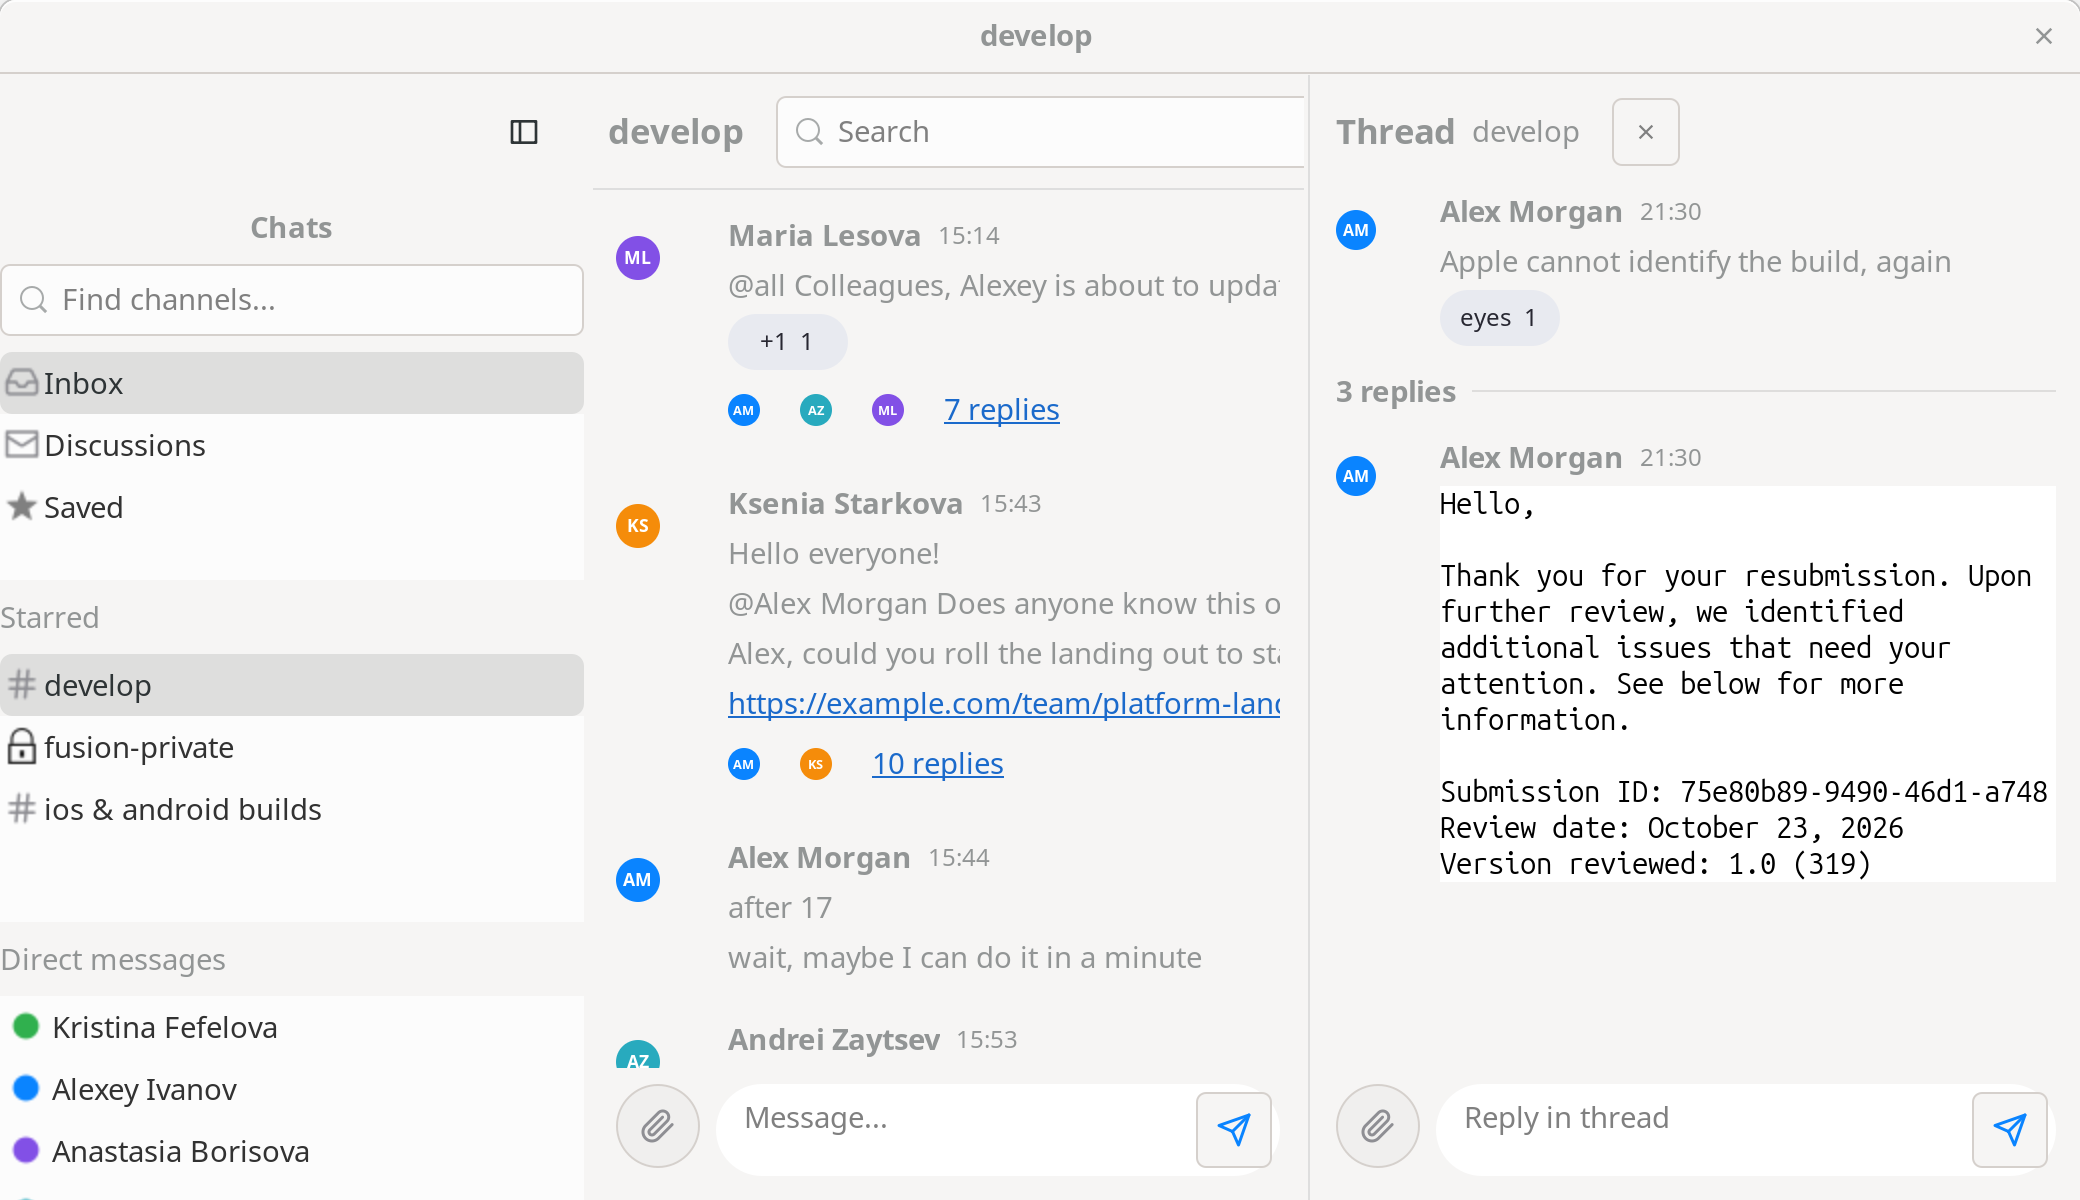
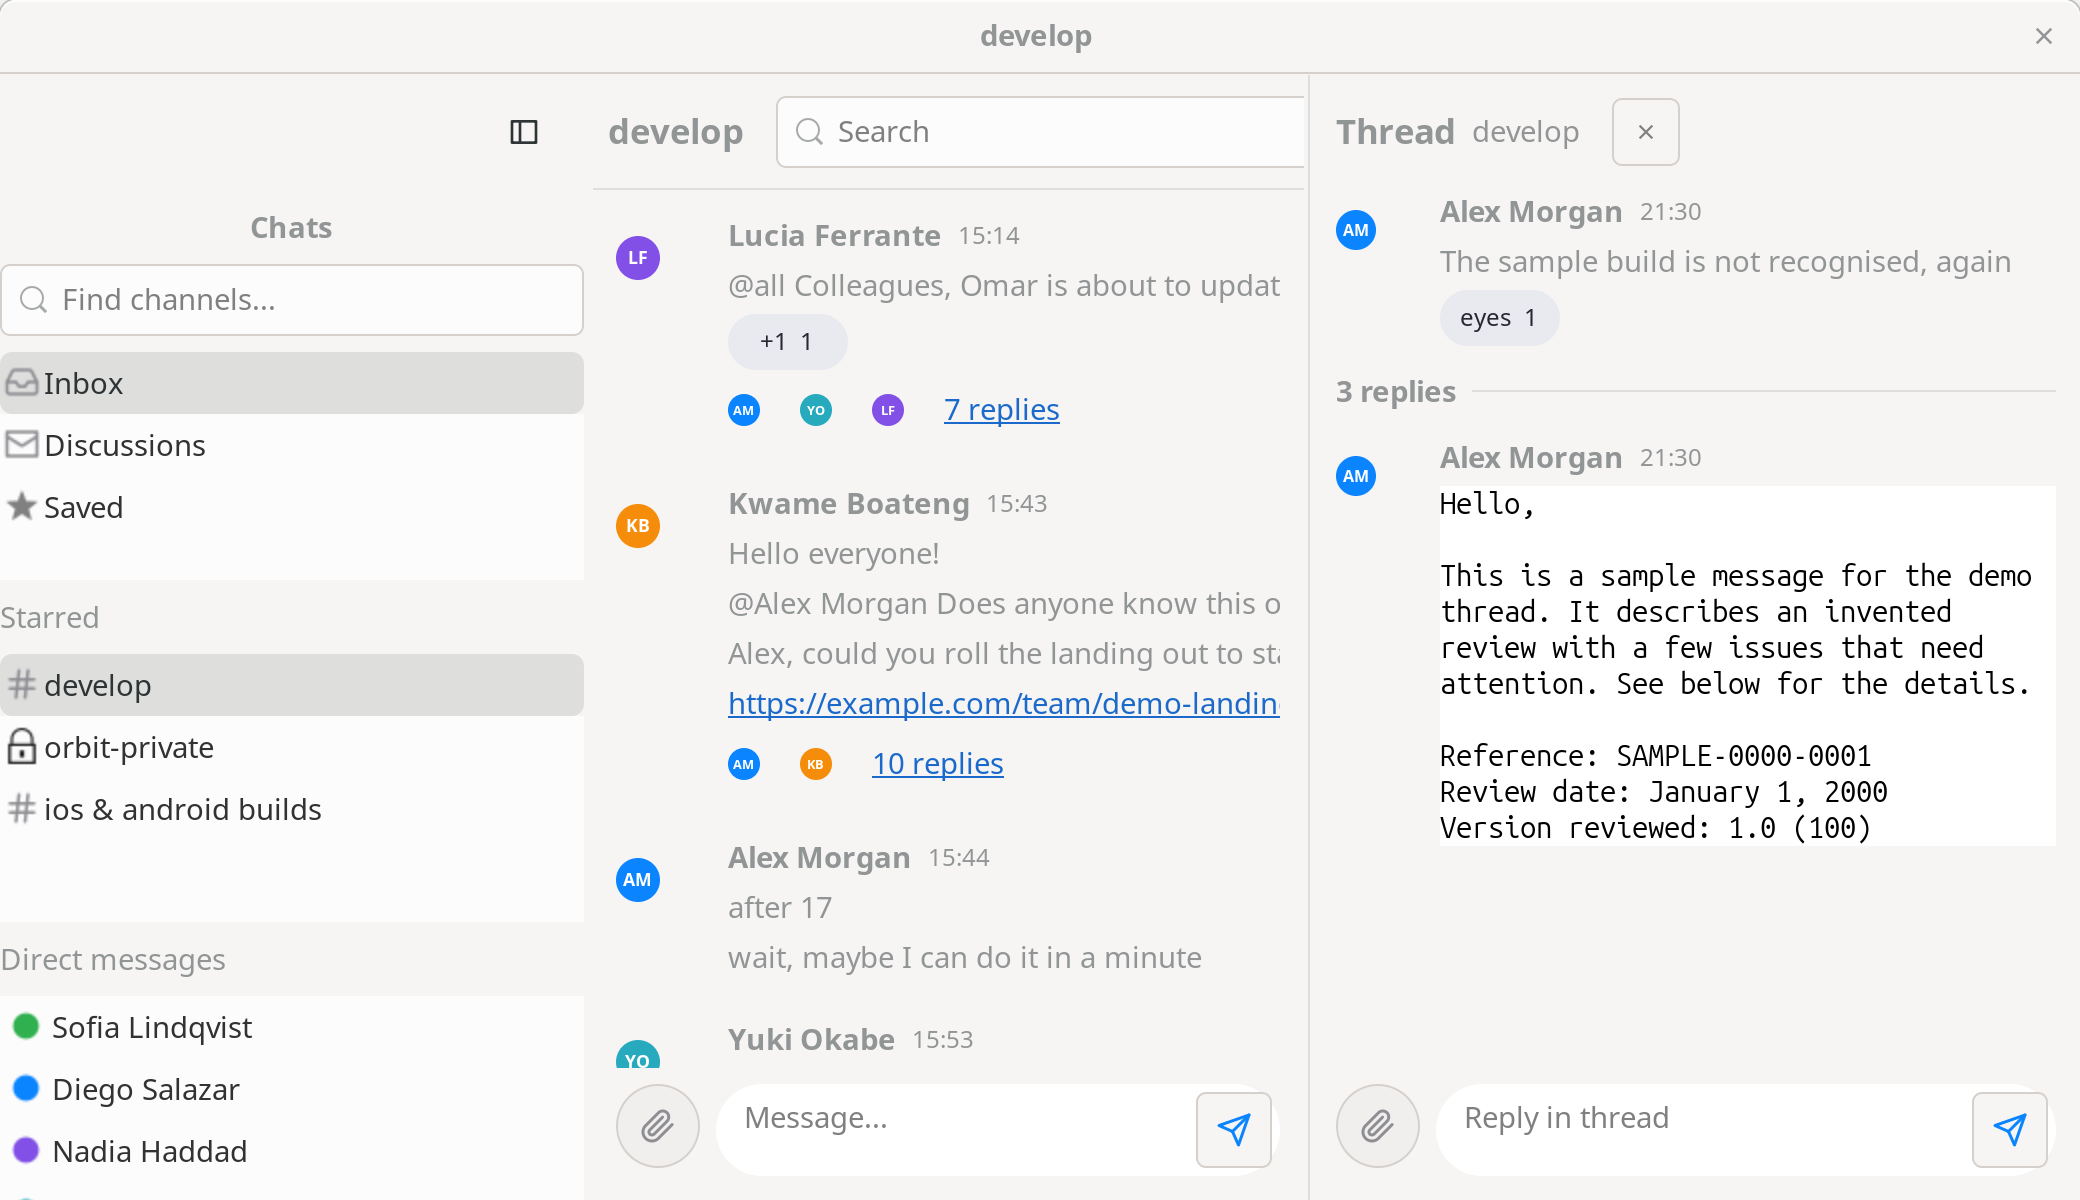
examples/apps/chat: invented names, channel, link and thread text; reshoot app-chat on Windows and Linux

diff --git a/examples/apps/chat/main.go b/examples/apps/chat/main.go
@@ -18,10 +18,10 @@ type person struct {
 }
 
 var (
-	maria  = person{"Maria Lesova", "ML", kit.Purple}
-	ksenia = person{"Ksenia Starkova", "KS", kit.Orange}
+	maria  = person{"Lucia Ferrante", "LF", kit.Purple}
+	ksenia = person{"Kwame Boateng", "KB", kit.Orange}
 	me     = person{"Alex Morgan", "AM", kit.Blue}
-	andrei = person{"Andrei Zaytsev", "AZ", kit.Teal}
+	andrei = person{"Yuki Okabe", "YO", kit.Teal}
 )
 
 type message struct {
@@ -34,8 +34,8 @@ type message struct {
 }
 
 var feed = []message{
-	{who: maria, time: "15:14", lines: []string{"@all Colleagues, Alexey is about to update staging, anyone against?"}, reaction: "+1  1", replies: "7 replies", repliedBy: []person{me, andrei, maria}},
-	{who: ksenia, time: "15:43", lines: []string{"Hello everyone!", "@Alex Morgan Does anyone know this one?", "Alex, could you roll the landing out to staging from this branch again?", "https://example.com/team/platform-landing/tree/PLAT-1475"}, replies: "10 replies", repliedBy: []person{me, ksenia}},
+	{who: maria, time: "15:14", lines: []string{"@all Colleagues, Omar is about to update staging, anyone against?"}, reaction: "+1  1", replies: "7 replies", repliedBy: []person{me, andrei, maria}},
+	{who: ksenia, time: "15:43", lines: []string{"Hello everyone!", "@Alex Morgan Does anyone know this one?", "Alex, could you roll the landing out to staging from this branch again?", "https://example.com/team/demo-landing/tree/DEMO-1475"}, replies: "10 replies", repliedBy: []person{me, ksenia}},
 	{who: me, time: "15:44", lines: []string{"after 17", "wait, maybe I can do it in a minute"}},
 	{who: andrei, time: "15:53", lines: []string{"@Alex Morgan Shall I rebuild it?"}},
 	{who: me, time: "15:53", lines: []string{"I will do it, you do not have push access anyway"}, reaction: "ok  1", replies: "2 replies", repliedBy: []person{andrei, me}},
@@ -86,10 +86,10 @@ func sidebarPane(app *gowt.App, ref **gowt.Panel) gowt.Option {
 		gowt.Text(gowt.Search(), gowt.Hint("Find channels..."), gowt.GrowX()),
 		nav(96, -1, [2]any{"Inbox", sym(kit.PathInbox)}, [2]any{"Discussions", sym(kit.PathMail)}, [2]any{"Saved", ic("star")}),
 		gowt.Label("Starred", kit.Faint()),
-		nav(112, 0, [2]any{"develop", sym(kit.PathHash)}, [2]any{"fusion-private", ic("lock")}, [2]any{"ios & android builds", sym(kit.PathHash)}),
+		nav(112, 0, [2]any{"develop", sym(kit.PathHash)}, [2]any{"orbit-private", ic("lock")}, [2]any{"ios & android builds", sym(kit.PathHash)}),
 		gowt.Label("Direct messages", kit.Faint()),
-		nav(192, -1, [2]any{"Kristina Fefelova", dm(kit.Green)}, [2]any{"Alexey Ivanov", dm(kit.Blue)}, [2]any{"Anastasia Borisova", dm(kit.Purple)},
-			[2]any{"Anton Novgorodtsev", dm(kit.Teal)}, [2]any{"Maxim Denisov", dm(kit.Orange)}),
+		nav(192, -1, [2]any{"Sofia Lindqvist", dm(kit.Green)}, [2]any{"Diego Salazar", dm(kit.Blue)}, [2]any{"Nadia Haddad", dm(kit.Purple)},
+			[2]any{"Rohan Deshmukh", dm(kit.Teal)}, [2]any{"Emeka Obi", dm(kit.Orange)}),
 		gowt.Spacer())
 }
 
@@ -144,7 +144,7 @@ func composer(app *gowt.App, hint string) gowt.Option {
 }
 
 func threadPane(app *gowt.App, ref **gowt.Panel) gowt.Option {
-	code := "Hello,\n\nThank you for your resubmission. Upon further review, we identified additional issues that need your attention. See below for more information.\n\nSubmission ID: 75e80b89-9490-46d1-a748\nReview date: October 23, 2026\nVersion reviewed: 1.0 (319)"
+	code := "Hello,\n\nThis is a sample message for the demo thread. It describes an invented review with a few issues that need attention. See below for the details.\n\nReference: SAMPLE-0000-0001\nReview date: January 1, 2000\nVersion reviewed: 1.0 (100)"
 	return gowt.VBox(gowt.Ref(ref), gowt.Gap(gowt.Spacing.MD), gowt.Padding(gowt.Spacing.MD),
 		gowt.HBox(gowt.Gap(gowt.Spacing.SM), gowt.Label("Thread", gowt.Typeface(gowt.Type.Subtitle)), gowt.Label("develop", kit.Faint()), gowt.Spacer(),
 			gowt.Button("", gowt.Flat(), gowt.Size(gowt.Scaled(28), gowt.Scaled(28)), gowt.Init(func(b *gowt.ButtonView) { b.SetImage(icons.Get(app, "close", icons.Size(14))) }))),
@@ -152,7 +152,7 @@ func threadPane(app *gowt.App, ref **gowt.Panel) gowt.Option {
 			kit.Avatar(app, me.initials, me.color, gowt.Scaled(36)),
 			gowt.VBox(gowt.Gap(gowt.Spacing.XS), gowt.GrowX(),
 				gowt.HBox(gowt.Gap(gowt.Spacing.SM), gowt.Label(me.name, gowt.Typeface(gowt.Type.BodyStrong)), gowt.Label("21:30", kit.Faint(), gowt.Typeface(gowt.Type.Caption))),
-				gowt.Label("Apple cannot identify the build, again", gowt.Wrap(), gowt.GrowX()),
+				gowt.Label("The sample build is not recognised, again", gowt.Wrap(), gowt.GrowX()),
 				gowt.HBox(kit.Pill("eyes  1", gowt.Scaled(52), gowt.Scaled(24), gowt.RGB{R: 232, G: 234, B: 240}, gowt.RGB{R: 40, G: 40, B: 50})))),
 		gowt.HBox(gowt.Gap(gowt.Spacing.SM), gowt.GrowX(), gowt.Label("3 replies", kit.Faint(), gowt.Typeface(gowt.Type.BodyStrong)), gowt.Separator(gowt.GrowX(), gowt.Place(gowt.AlignFill, gowt.AlignCenter))),
 		gowt.HBox(gowt.Gap(gowt.Spacing.MD), gowt.Grow(), gowt.Place(gowt.AlignStart, gowt.AlignStart),

diff --git a/feed_gui_test.go b/feed_gui_test.go
@@ -11,7 +11,7 @@ import (
 	"github.com/haiodo/gowt/swt"
 )
 
-// A chat feed row as fusion-desktop builds it: avatar Canvas, header Label, wrapped body. Numbers have
+// A chat feed row as a chat client builds it: avatar Canvas, header Label, wrapped body. Numbers have
 // four digits, so that every row of the same i%4 has the same natural width.
 func feedRow(i int, kind string) Option {
 	text := fmt.Sprintf("Message %04d: %s", i, strings.Repeat("some wrapped text of a chat message ", 1+i%4))
